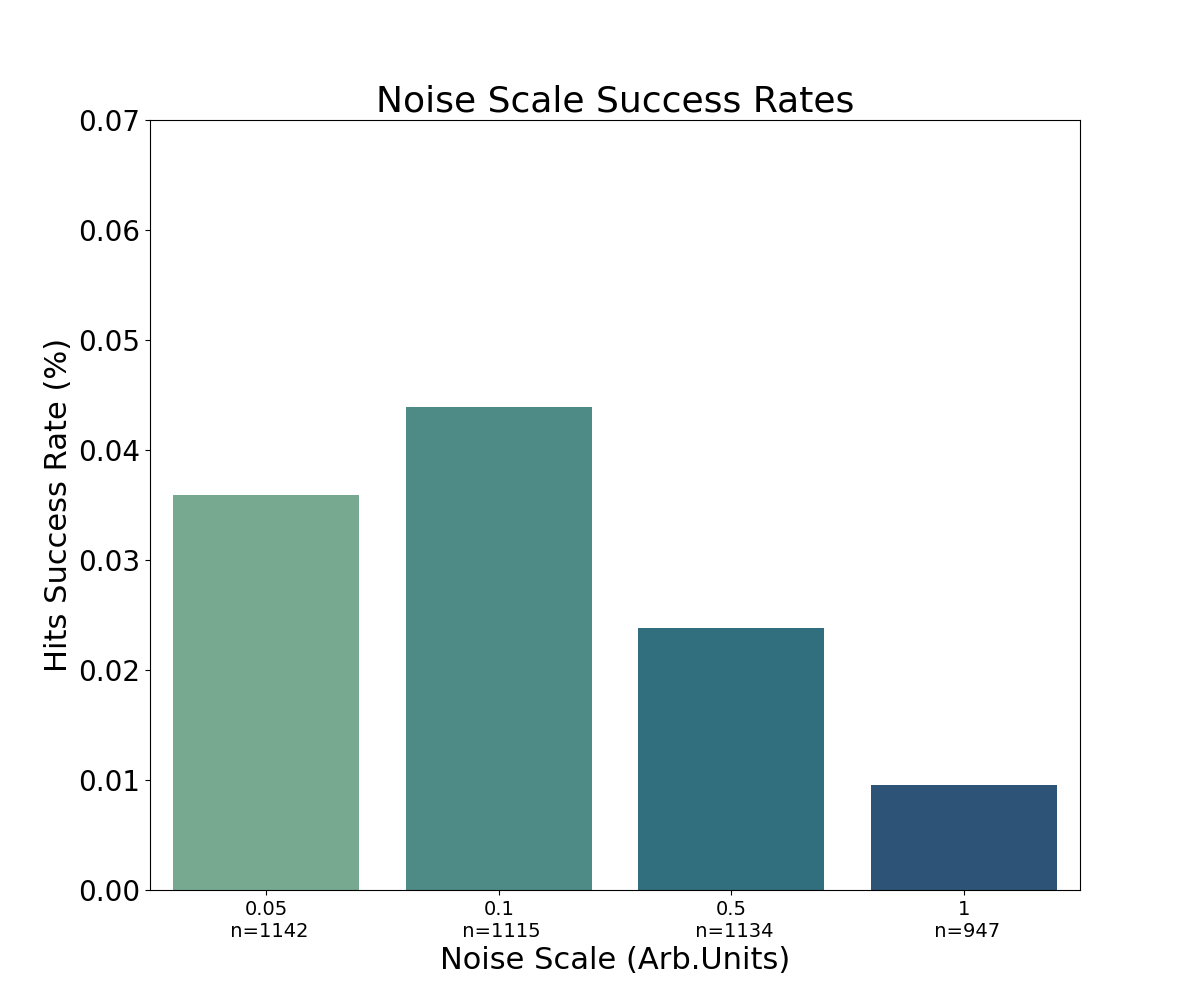
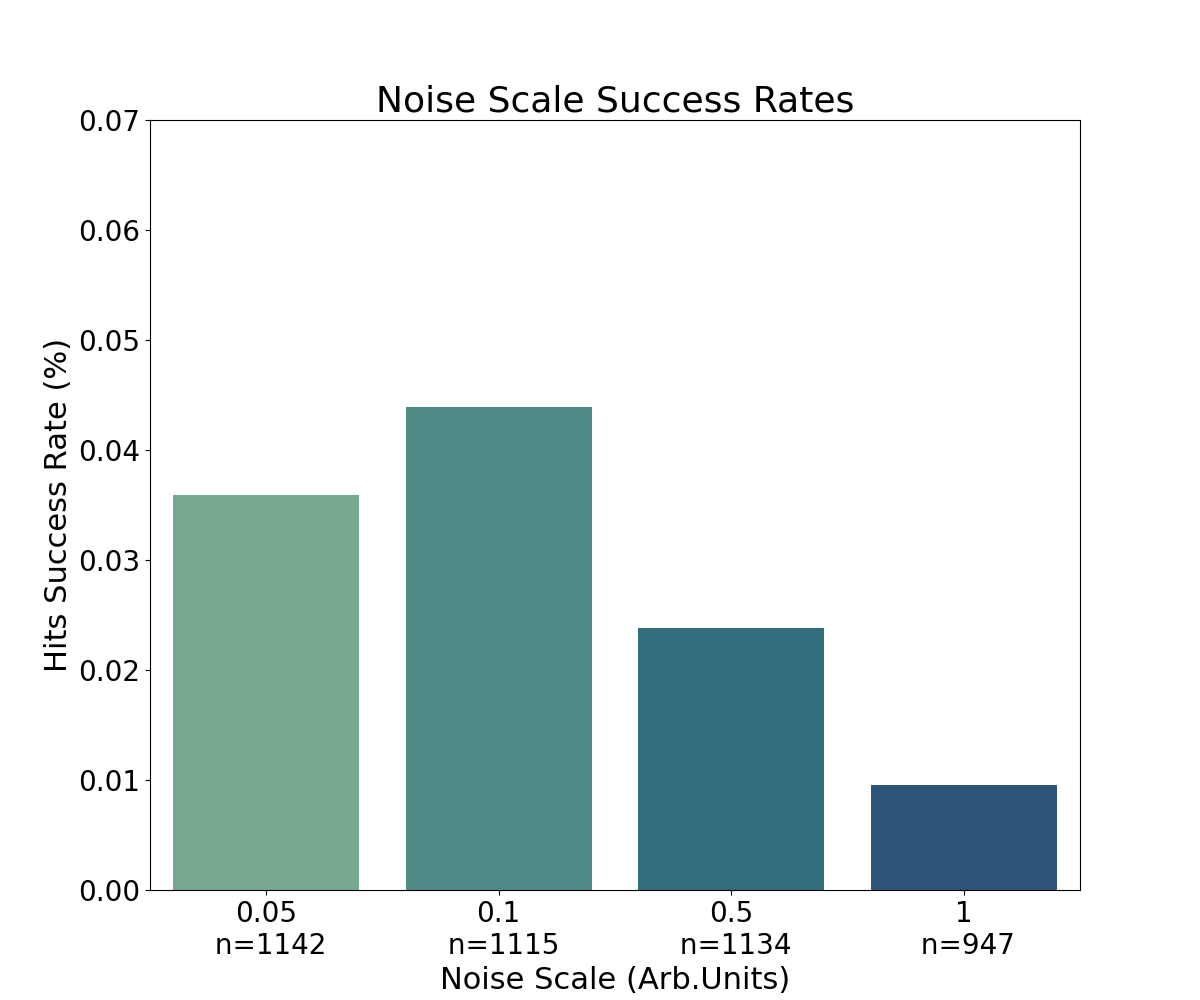
figures

Changed region(s): [[0.37, 0.899, 0.6783, 0.992], [0.185, 0.899, 0.2775, 0.961], [0.7708, 0.899, 0.8325, 0.961]]

diff --git a/FIGURES/Noise_Scale_figures.py b/FIGURES/Noise_Scale_figures.py
@@ -36,7 +36,7 @@ df_barplot['Percentage']=percentage
 plt.figure(figsize=(12, 10))
 
 barplot = sns.barplot(x='Noise', y='Percentage', data=df_barplot, palette='crest')
-
+sns.set_theme(style='whitegrid')
 # Add titles and labels
 plt.title('Noise Scale Success Rates',fontsize=26)
 plt.ylabel('Hits Success Rate (%)',fontsize=22)
@@ -44,7 +44,7 @@ plt.xlabel('Noise Scale (Arb.Units)', fontsize=22)
 barplot.set_xticklabels((f'0.05\n n={len( df_filtered_112[df_filtered_112["Noise"]==0.05])}', 
                          f'0.1\n n={len(df_filtered_112[df_filtered_112["Noise"]==0.1])}', 
                          f'0.5\n n={len(df_filtered_112[df_filtered_112["Noise"]==0.5])}', 
-                         f'1\n n={len(df_filtered_112[df_filtered_112["Noise"]==1])}'), fontsize=14)
+                         f'1\n n={len(df_filtered_112[df_filtered_112["Noise"]==1])}'), fontsize=20)
 
 # Show the plot
 plt.ylim((0,0.07))
